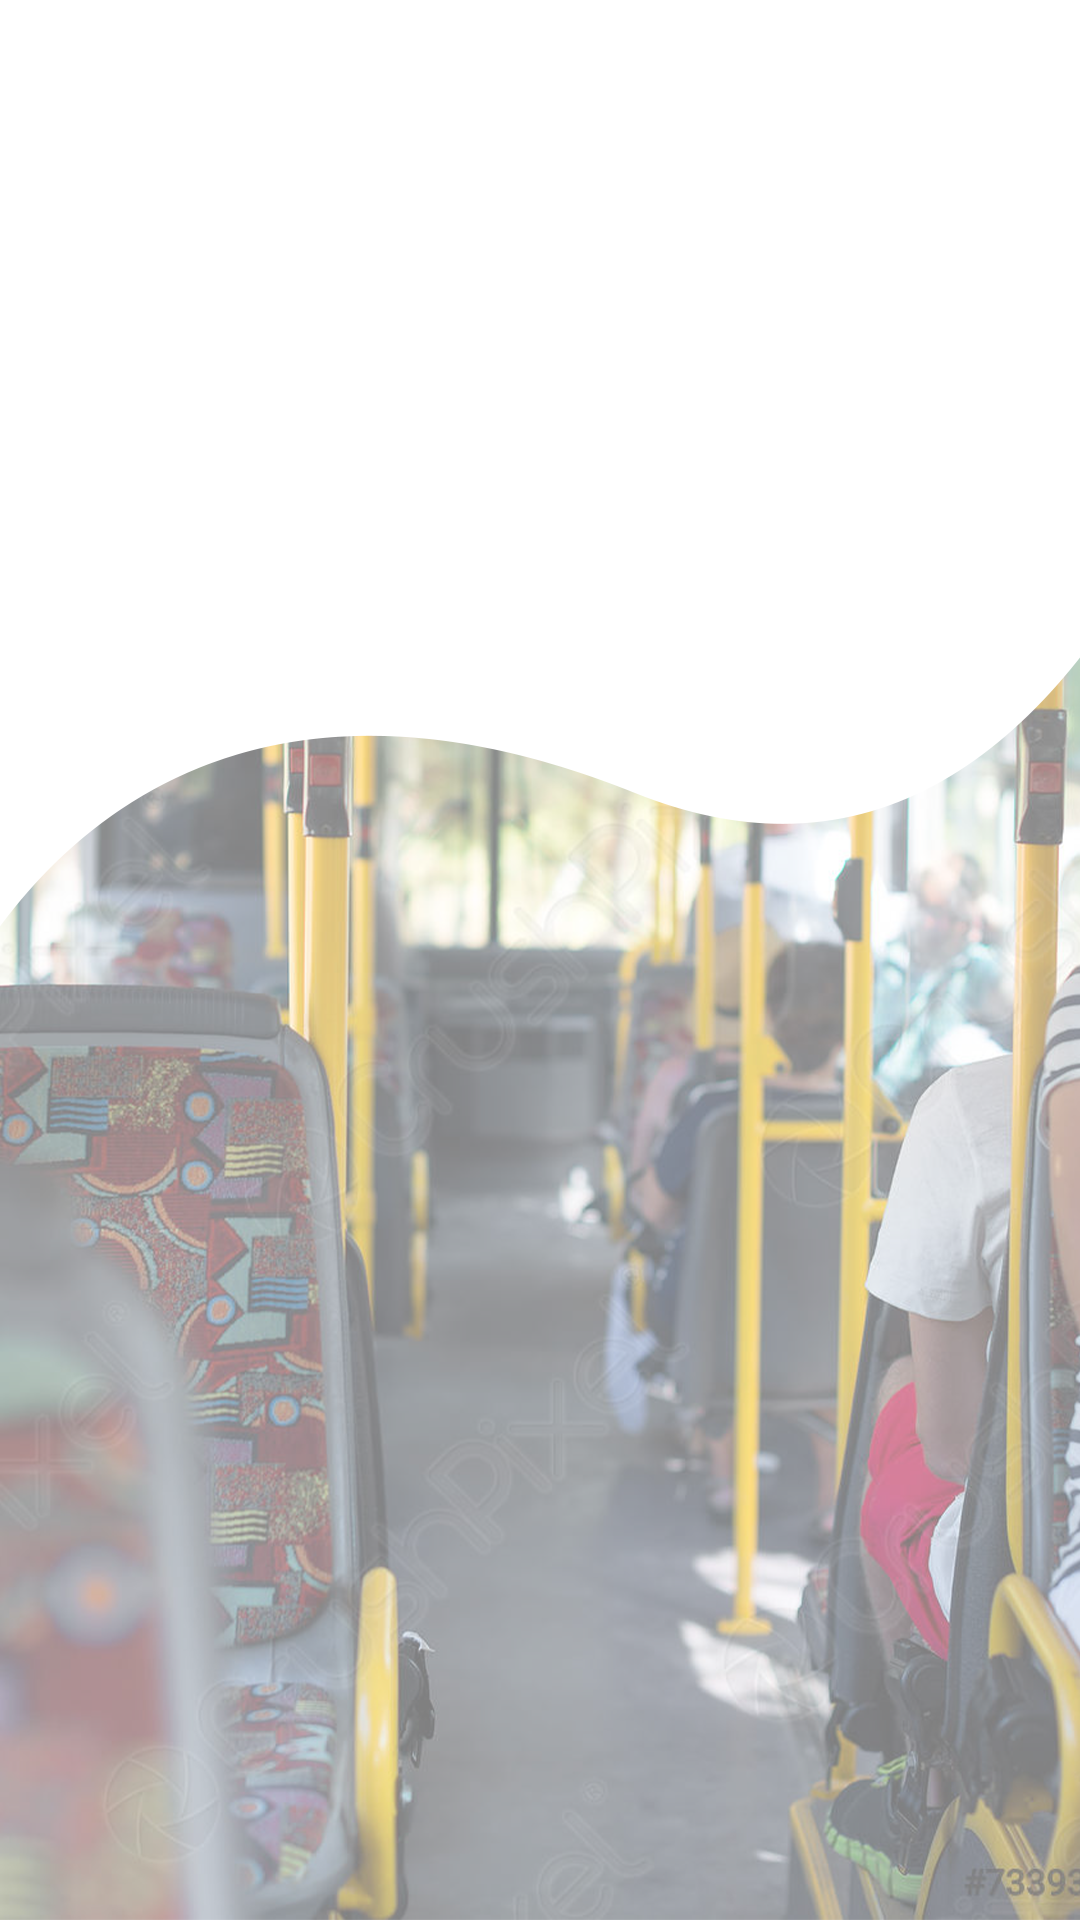
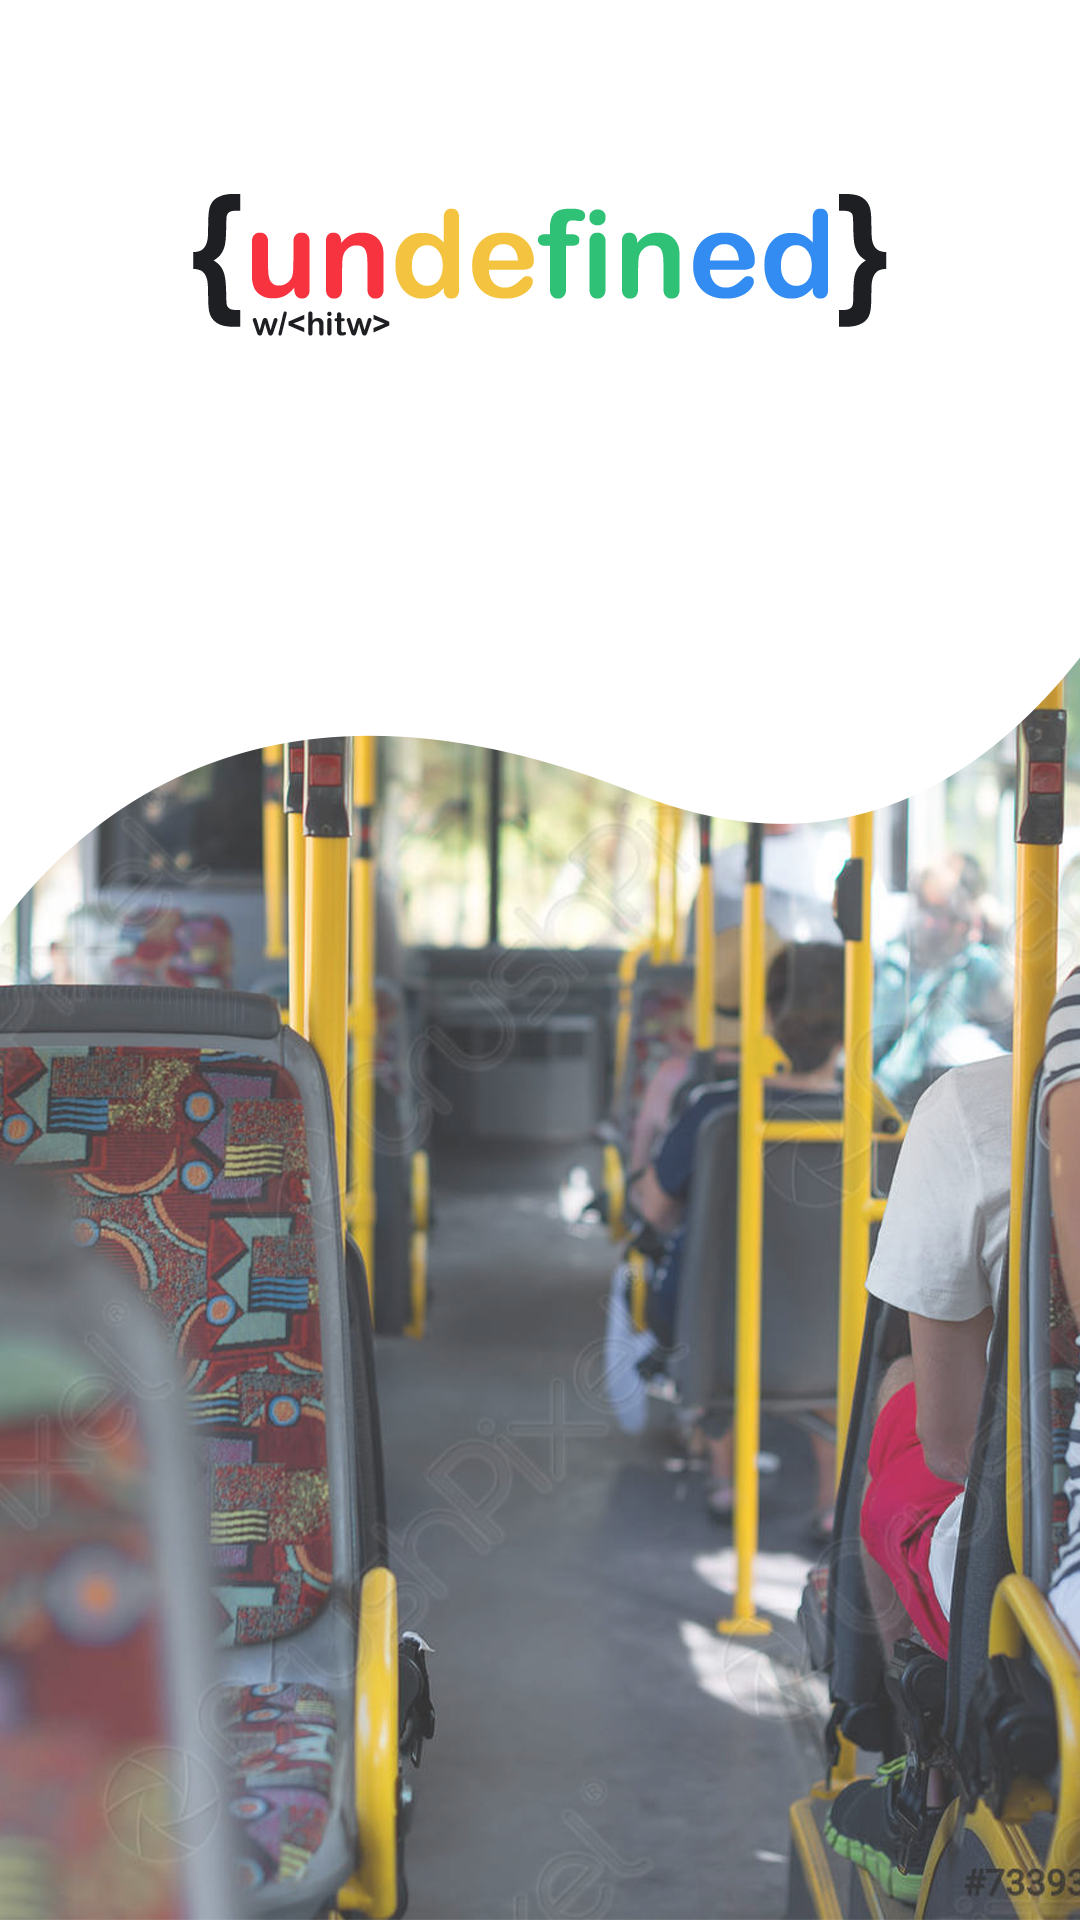
css

diff --git a/client/src/components/style/transportButton.css b/client/src/components/style/transportButton.css
@@ -3,17 +3,19 @@ body{
     background-repeat:no-repeat;
 	background-size: cover;
     background-attachment: fixed;
+    background-position: center;
 }
 
 .icon{
-    width: 35%;
-    height: 80px;
+    width: 30%;
+    height: 100px;
     padding: 15px;
-    margin: 10px;
-    border-radius: 15px;
+    margin: 20px;
+    border-radius: 20px;
     text-align: center;
     background: var(--red);
+    
 }
 .icon img{
-    height: 80px;
+    height: 100px;
 }

diff --git a/client/src/components/style/adapt.css b/client/src/components/style/adapt.css
@@ -3,5 +3,9 @@
     flex-wrap: wrap;
     justify-content: center;
     margin: 10px;
-    background-color: black;
+    margin-top: 35vh;
+    background-color: #ffffff8b;
+    filter: drop-shadow(0px 0px 20px var(--black-shadow));
+    backdrop-filter: blur(5px);
+    border-radius: 20px;
 }
